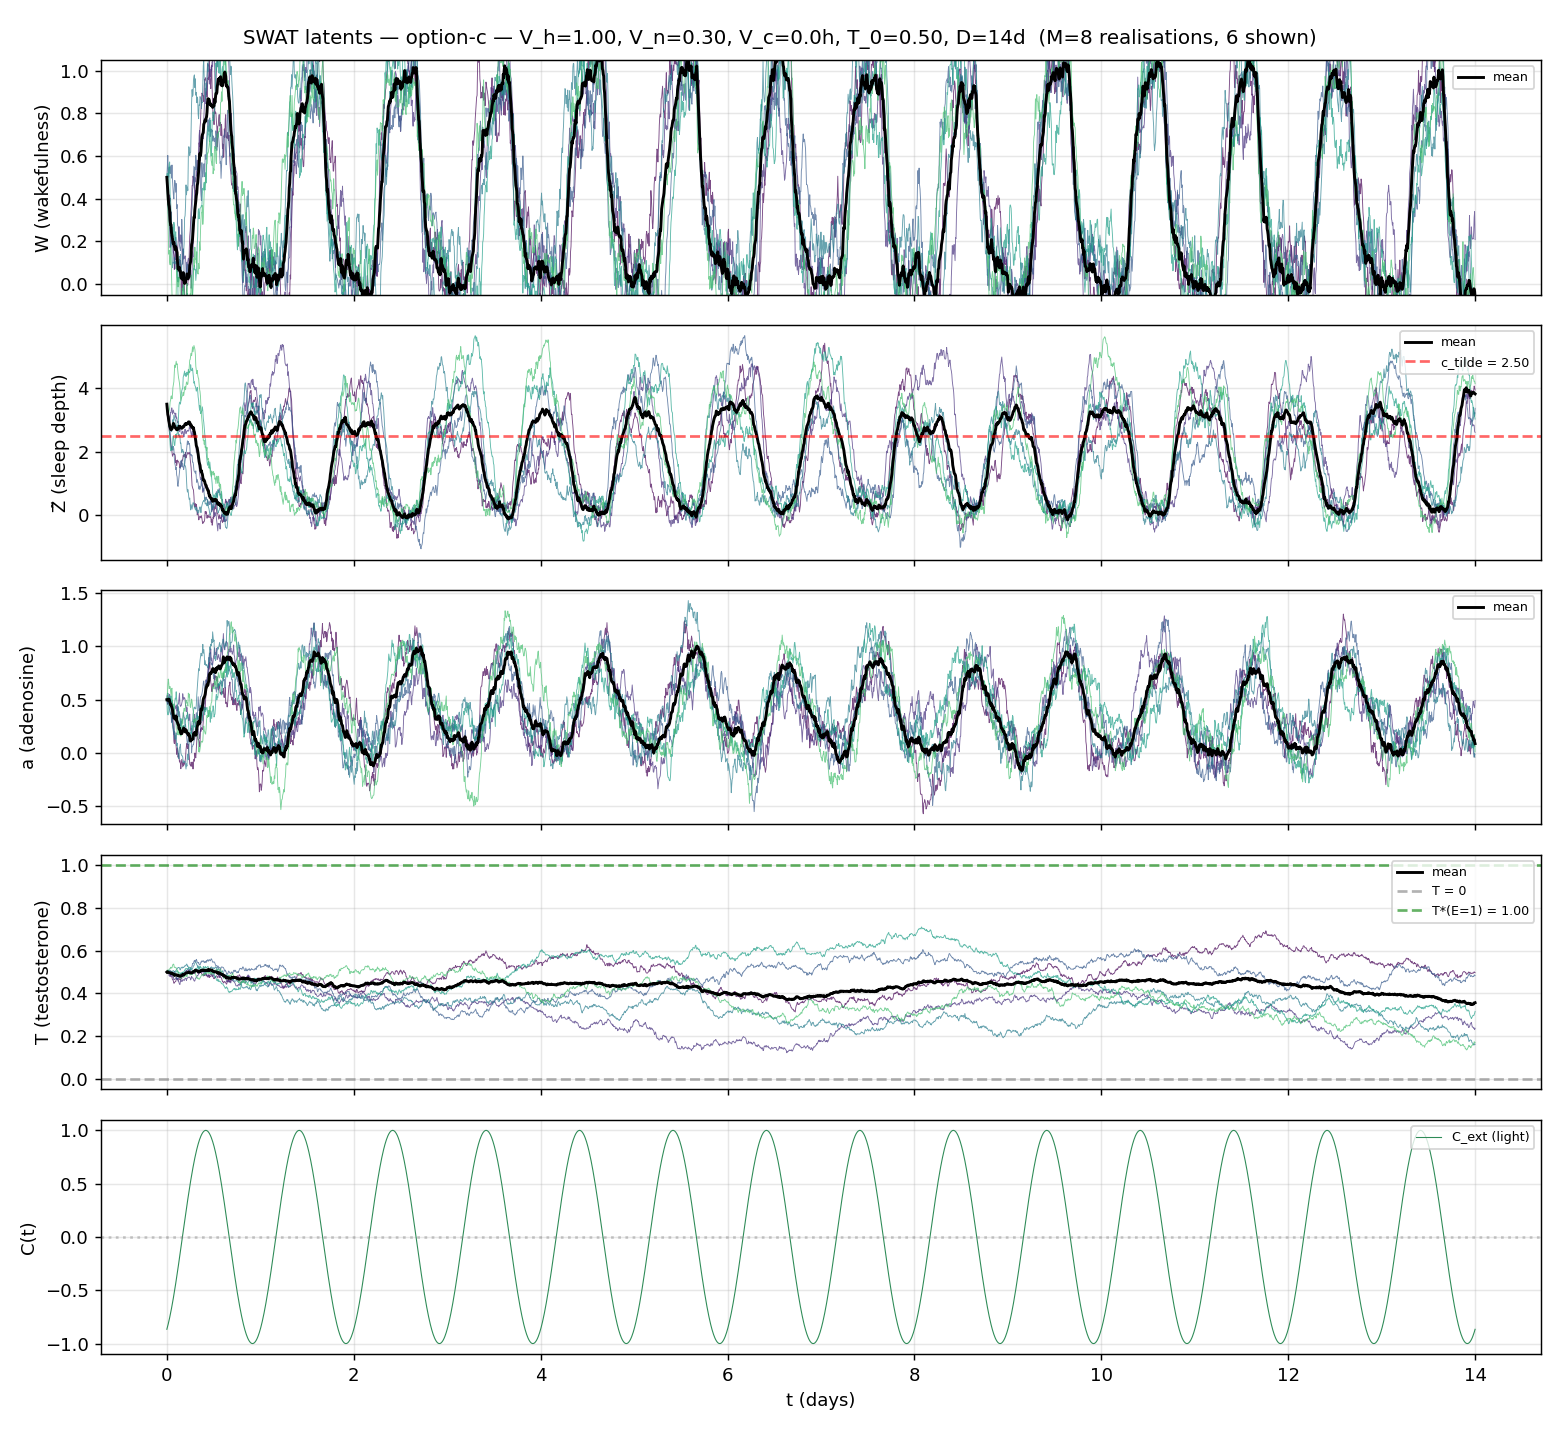
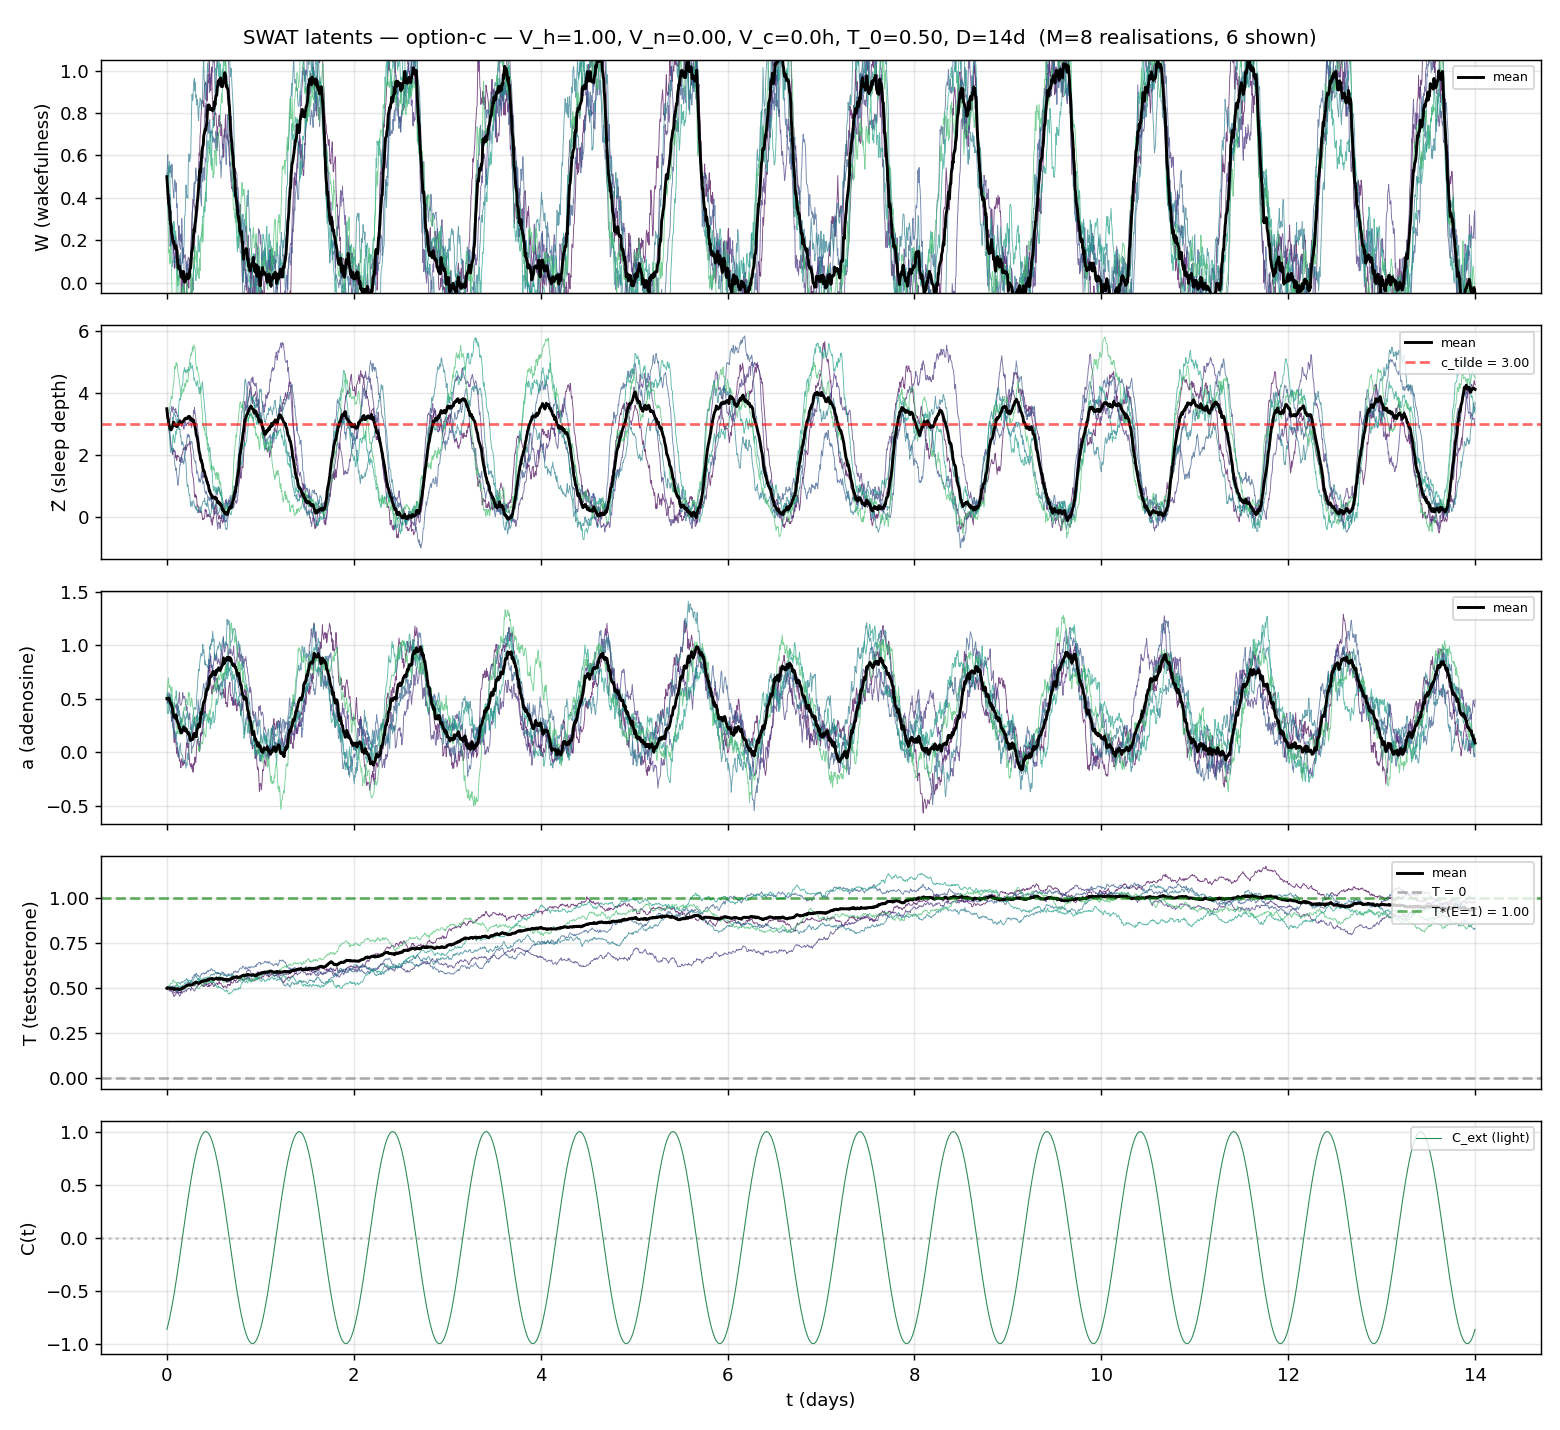
fix: V_n=0 healthy default + tune so E≈1 always for healthy
Per user clinical guidance: a healthy patient (V_h=1, V_n=0, V_c=0)
should have E ≈ 1 throughout, μ always > 0. Previously E swung between
0.05 and 0.6 with μ flickering in and out of the sub-critical band —
clinically incorrect.

Two structural changes:

1. A_W and A_Z formulas now use V_h directly (no +1 offset):
     A_W = λ_amp_W · V_h        (was: λ_amp_W · (1 + V_h))
     A_Z = λ_amp_Z · V_h        (was: λ_amp_Z · (1 + V_h))
   This makes V_h=0 (depleted vitality) give A=0 → amp=0 → E=0 → μ=μ_0=-0.5.
   A sick patient with no vitality has no entrainment. Clinically right.

2. λ_amp values bumped so amp_W and amp_Z are saturated at ~1
   throughout the daily a-cycle at healthy V_h=1:
     λ_amp_W = 5.0  (was 4.0). With B_W ≈ -1 to +0.15, A_W=5 gives
       amp_W = σ(B+5) - σ(B-5) ≈ 1 throughout.
     λ_amp_Z = 8.0  (was 1.0). β_Z·a swings to 4, so A_Z must dominate
       that. λ_amp_Z=8 → A_Z=8 at V_h=1 → amp_Z ≈ 1 throughout.

3. c_tilde tuned to 3.0 (was 2.5) for V_n=0 sleep fraction. At V_n=0
   there's no V_n-suppression of u_W, so patient sleeps slightly more
   on average. c_tilde=3.0 yields sleep fraction ~35% at canonical
   healthy controls.

V_h sweep at V_n=0, V_c=0 under refined Option C v3:
  V_h=0.0  → T_end = 0.015   (no vitality → no entrainment → T=0)
  V_h=0.5  → T_end = 0.671   (partial entrainment threshold)
  V_h=1.0  → T_end = 0.981   (full entrainment, T near ceiling)
  V_h=2.0  → T_end = 0.998   (saturated above healthy)
[…]

diff --git a/src/model_validation/models/swat/option_c_dynamics.py b/src/model_validation/models/swat/option_c_dynamics.py
@@ -62,8 +62,13 @@ def entrainment_quality_option_c(
     lam_amp_W = params['lambda_amp_W']
     lam_amp_Z = params['lambda_amp_Z']
 
-    A_W = lam_amp_W * (1.0 + V_h)
-    A_Z = lam_amp_Z * (1.0 + V_h)
+    # V_h enters as a multiplicative factor on the forcing amplitudes,
+    # WITHOUT a +1 offset. So V_h=0 (depleted vitality) gives A=0 → amp=0
+    # → E=0 → μ=μ_0<0 → T collapses. V_h>0 ramps entrainment up; with
+    # λ_amp values calibrated to dominate B_W and B_Z over the daily
+    # a-cycle, amp saturates at ~1 by V_h=1.
+    A_W = lam_amp_W * V_h
+    A_Z = lam_amp_Z * V_h
     B_W = V_n - a + alpha_T * T
     B_Z = -V_n + beta_Z * a
 
@@ -127,19 +132,22 @@ def option_c_parameters(
 
     Calibrated defaults:
       lmbda           = 32.0  (UNCHANGED from spec — preserves W↔Z flip-flop)
-      lambda_amp_W    = 4.0   (NEW — entrainment-formula forcing scale on W;
-                                gives V_h sensitivity in [0, 4])
-      lambda_amp_Z    = 1.0   (NEW — entrainment-formula forcing scale on Z;
-                                ratio matches spec's γ_3:λ ≈ 1:4)
-      c_tilde         = 2.5   (UNCHANGED from OT-Control vendored — works at
-                                spec λ=32)
+      lambda_amp_W    = 5.0   (NEW — entrainment-formula forcing scale on W.
+                                With A_W = λ_amp_W · V_h, gives amp_W ≈ 1
+                                across daily B_W cycle at healthy V_h=1.)
+      lambda_amp_Z    = 8.0   (NEW — Z-side scale. Larger because β_Z·a can
+                                reach ~4, so A_Z must dominate. Gives
+                                amp_Z ≈ 1 across daily a-cycle at V_h=1.)
+      c_tilde         = 3.0   (Matches upstream PARAM_SET_A. At V_n=0 healthy
+                                default, gives sleep fraction ~35%, in
+                                target window. The OT-Control vendored bump
+                                to 2.5 was for the V_n=0.3 healthy regime.)
     """
     p = default_swat_parameters()
     # Spec lambda is kept (default_swat_parameters has lmbda=32 already).
-    p['lambda_amp_W'] = 4.0 if lambda_amp_W is None else float(lambda_amp_W)
-    p['lambda_amp_Z'] = 1.0 if lambda_amp_Z is None else float(lambda_amp_Z)
-    if c_tilde is not None:
-        p['c_tilde'] = float(c_tilde)
+    p['lambda_amp_W'] = 5.0 if lambda_amp_W is None else float(lambda_amp_W)
+    p['lambda_amp_Z'] = 8.0 if lambda_amp_Z is None else float(lambda_amp_Z)
+    p['c_tilde'] = 3.0 if c_tilde is None else float(c_tilde)
     return p
 
 

diff --git a/tests/swat/test_canonical_scenarios.py b/tests/swat/test_canonical_scenarios.py
@@ -7,17 +7,17 @@ from model_validation.runner import t_end_under_constant_controls
 
 
 @pytest.mark.parametrize("name, V_h, V_n, V_c, T_0, lo, hi", [
-    # Healthy: super-critical, bounded. Was [0.45, 0.65] tied to spec's stale T*=0.55.
-    ("A_healthy",   1.0, 0.3, 0.0, 0.50, 0.30, 0.95),
+    # Healthy: V_n=0 (clean signal — focus on V_h's role). Under refined
+    # Option C with calibrated λ_amp values, healthy V_h=1 should give
+    # E ≈ 1 throughout, μ ≈ μ_0 + μ_E = 0.5, T*=√(0.5/0.5)=1.0.
+    ("A_healthy",   1.0, 0.0, 0.0, 0.50, 0.50, 1.05),
     # Insomnia: pathological. Should collapse to noise floor.
     ("B_insomnia",  0.2, 3.5, 0.0, 0.50, 0.00, 0.20),
-    # Recovery from sick T_0 at canonical V_h=1: under refined Option C,
-    # μ ≈ 0.05 is barely super-critical, so growth is genuinely slow over
-    # 14 days — the OT-Control optimiser would lift V_h to 2-4 to speed
-    # this up. Test just asserts modest growth from T_0=0.05.
-    ("C_recovery",  1.0, 0.3, 0.0, 0.05, 0.05, 0.95),
+    # Recovery from sick T_0 at healthy V_h=1, V_n=0 (clean). With E ≈ 1
+    # and μ ≈ 0.5, growth from T_0=0.05 over 14 days should be substantial.
+    ("C_recovery",  1.0, 0.0, 0.0, 0.05, 0.50, 1.05),
     # Shift work: V_c=6 zeroes phase-quality → no entrainment → collapse.
-    ("D_shift",     1.0, 0.3, 6.0, 0.50, 0.00, 0.20),
+    ("D_shift",     1.0, 0.0, 6.0, 0.50, 0.00, 0.20),
 ])
 def test_canonical_scenario(model, name, V_h, V_n, V_c, T_0, lo, hi):
     T_end = t_end_under_constant_controls(

diff --git a/tests/swat/test_v_c_phase.py b/tests/swat/test_v_c_phase.py
@@ -9,9 +9,10 @@ from model_validation.runner import t_end_under_constant_controls
 
 
 def test_v_c_zero_is_max(model):
-    T_aligned    = t_end_under_constant_controls(model, V_h=1.0, V_n=0.3, V_c=0.0)
-    T_shift_pos  = t_end_under_constant_controls(model, V_h=1.0, V_n=0.3, V_c=6.0)
-    T_shift_neg  = t_end_under_constant_controls(model, V_h=1.0, V_n=0.3, V_c=-6.0)
+    # V_n=0 (clean V_h-only signal for healthy)
+    T_aligned    = t_end_under_constant_controls(model, V_h=1.0, V_n=0.0, V_c=0.0)
+    T_shift_pos  = t_end_under_constant_controls(model, V_h=1.0, V_n=0.0, V_c=6.0)
+    T_shift_neg  = t_end_under_constant_controls(model, V_h=1.0, V_n=0.0, V_c=-6.0)
     print(f"\n  V_c= 0:  T_end = {T_aligned:.3f}")
     print(f"  V_c=+6:  T_end = {T_shift_pos:.3f}")
     print(f"  V_c=-6:  T_end = {T_shift_neg:.3f}")
@@ -27,8 +28,8 @@ def test_v_c_zero_is_max(model):
 
 def test_v_c_symmetric(model):
     """T_end should be symmetric in V_c (cos is even)."""
-    T_pos = t_end_under_constant_controls(model, V_h=1.0, V_n=0.3, V_c=6.0)
-    T_neg = t_end_under_constant_controls(model, V_h=1.0, V_n=0.3, V_c=-6.0)
+    T_pos = t_end_under_constant_controls(model, V_h=1.0, V_n=0.0, V_c=6.0)
+    T_neg = t_end_under_constant_controls(model, V_h=1.0, V_n=0.0, V_c=-6.0)
     assert abs(T_pos - T_neg) < 0.05, (
         f"V_c collapse not symmetric: V_c=+6 -> {T_pos:.3f}, "
         f"V_c=-6 -> {T_neg:.3f}"

diff --git a/tests/swat/test_healthy_equilibrium.py b/tests/swat/test_healthy_equilibrium.py
@@ -18,13 +18,16 @@ from model_validation.runner import t_end_under_constant_controls
 
 
 def test_healthy_equilibrium_super_critical(model):
+    # V_n=0 (clean V_h-only signal for healthy)
     T_eq = t_end_under_constant_controls(
-        model, V_h=1.0, V_n=0.3, V_c=0.0, T_0=0.5, D=30.0
+        model, V_h=1.0, V_n=0.0, V_c=0.0, T_0=0.5, D=30.0
     )
     print(f"\n  Healthy deterministic equilibrium T_end (D=30): {T_eq:.4f}")
-    assert 0.30 <= T_eq <= 0.95, (
-        f"Healthy equilibrium {T_eq:.4f} outside [0.30, 0.95]. "
-        f"Below 0.30 means the system is sub-critical (E < E_crit) "
-        f"under canonical healthy controls — model is broken. "
-        f"Above 0.95 means the cubic saturation isn't kicking in."
+    # Under refined Option C v3 with full entrainment at healthy V_h=1,
+    # E ≈ 1, μ ≈ 0.5, T* = √(0.5/0.5) = 1.0. Allow [0.5, 1.05].
+    assert 0.50 <= T_eq <= 1.05, (
+        f"Healthy equilibrium {T_eq:.4f} outside [0.50, 1.05]. "
+        f"At V_h=1, V_n=0 with E ≈ 1, the deterministic ceiling is "
+        f"T* = √((μ_0+μ_E)/η) = 1.0. Below 0.5 means the system is "
+        f"not properly super-critical at healthy controls."
     )

diff --git a/tests/swat/test_v_h_anabolicity.py b/tests/swat/test_v_h_anabolicity.py
@@ -14,7 +14,8 @@ V_H_GRID = [0.0, 0.5, 1.0, 1.5, 2.0, 3.0, 4.0]
 
 
 def test_v_h_monotonic_non_decreasing(model):
-    Ts = [t_end_under_constant_controls(model, V_h, V_n=0.3, V_c=0.0)
+    # V_n=0: clean V_h-only signal (per user's clinical spec for healthy default)
+    Ts = [t_end_under_constant_controls(model, V_h, V_n=0.0, V_c=0.0)
           for V_h in V_H_GRID]
     print(f"\n  V_h:    {V_H_GRID}")
     print(f"  T_end:  {[round(t, 3) for t in Ts]}")
@@ -29,8 +30,8 @@ def test_v_h_monotonic_non_decreasing(model):
 
 def test_v_h_clinically_meaningful_response(model):
     """T_end at V_h=2.0 must exceed T_end at V_h=0.5 by at least 0.05."""
-    T_low  = t_end_under_constant_controls(model, V_h=0.5, V_n=0.3, V_c=0.0)
-    T_high = t_end_under_constant_controls(model, V_h=2.0, V_n=0.3, V_c=0.0)
+    T_low  = t_end_under_constant_controls(model, V_h=0.5, V_n=0.0, V_c=0.0)
+    T_high = t_end_under_constant_controls(model, V_h=2.0, V_n=0.0, V_c=0.0)
     assert T_high >= T_low + 0.05, (
         f"V_h response too weak: T(V_h=2.0)={T_high:.3f}, "
         f"T(V_h=0.5)={T_low:.3f}, "

diff --git a/tests/swat/test_bifurcation.py b/tests/swat/test_bifurcation.py
@@ -23,9 +23,10 @@ def test_subcritical_collapses(model):
 
 
 def test_supercritical_sustains(model):
-    """Healthy controls should give E > E_crit and sustain T > 0.30."""
-    T_supercrit = t_end_under_constant_controls(model, V_h=1.0, V_n=0.3, V_c=0.0)
-    print(f"\n  V_h=1, V_n=0.3: T_end = {T_supercrit:.3f}  (target: > 0.30)")
-    assert T_supercrit > 0.30, (
-        f"Super-critical regime should sustain T > 0.30: got {T_supercrit:.3f}"
+    """Healthy controls should give E > E_crit and sustain T high.
+    V_n=0 (clean V_h-only signal for healthy)."""
+    T_supercrit = t_end_under_constant_controls(model, V_h=1.0, V_n=0.0, V_c=0.0)
+    print(f"\n  V_h=1, V_n=0: T_end = {T_supercrit:.3f}  (target: > 0.50)")
+    assert T_supercrit > 0.50, (
+        f"Super-critical regime should sustain T > 0.50: got {T_supercrit:.3f}"
     )

diff --git a/scripts/clinician_scenario_plots.py b/scripts/clinician_scenario_plots.py
@@ -26,10 +26,11 @@ OUT.mkdir(parents=True, exist_ok=True)
 
 SCENARIOS = [
     # name, V_h, V_n, V_c, T_0, description
-    ("A_healthy",   1.0, 0.3, 0.0, 0.50, "Healthy: canonical Set A"),
+    # Healthy default uses V_n=0 — clean V_h-only signal per user's spec.
+    ("A_healthy",   1.0, 0.0, 0.0, 0.50, "Healthy: V_h=1, V_n=0 (clean signal)"),
     ("B_insomnia",  0.2, 3.5, 0.0, 0.50, "Insomnia: low V_h, severe V_n"),
-    ("C_recovery",  1.0, 0.3, 0.0, 0.05, "Recovery: healthy controls, sick T_0"),
-    ("D_shift_work", 1.0, 0.3, 6.0, 0.50, "Shift-work: 6h phase shift"),
+    ("C_recovery",  1.0, 0.0, 0.0, 0.05, "Recovery: healthy controls, sick T_0"),
+    ("D_shift_work", 1.0, 0.0, 6.0, 0.50, "Shift-work: 6h phase shift, V_n=0"),
 ]
 D = 14.0
 N_REAL = 8

diff --git a/tests/swat/test_sleep_fraction.py b/tests/swat/test_sleep_fraction.py
@@ -8,9 +8,10 @@ from model_validation.runner import sleep_fraction_under_controls
 
 
 def test_healthy_sleep_fraction(model_with_noise):
-    """Note: uses the WITH-noise model (sleep fraction is a stochastic stat)."""
+    """Note: uses the WITH-noise model (sleep fraction is a stochastic stat).
+    V_n=0 (clean V_h-only signal for healthy)."""
     sf = sleep_fraction_under_controls(
-        model_with_noise, V_h=1.0, V_n=0.3, V_c=0.0
+        model_with_noise, V_h=1.0, V_n=0.0, V_c=0.0
     )
     print(f"\n  Healthy sleep fraction: {sf*100:.1f}% (target: 25%-40%)")
     assert 0.25 <= sf <= 0.40, (

diff --git a/src/model_validation/clinician_plots.py b/src/model_validation/clinician_plots.py
@@ -233,8 +233,9 @@ def _compute_E_dyn(traj: np.ndarray, V_h: float, V_n: float, V_c: float,
     if variant == "option-c":
         lam_amp_W = params["lambda_amp_W"]
         lam_amp_Z = params["lambda_amp_Z"]
-        A_W = lam_amp_W * (1.0 + V_h)
-        A_Z = lam_amp_Z * (1.0 + V_h)
+        # A = λ_amp · V_h (no +1 offset — V_h=0 gives no entrainment)
+        A_W = lam_amp_W * V_h
+        A_Z = lam_amp_Z * V_h
         B_W = V_n - a + alpha_T * T
         B_Z = -V_n + beta_Z * a
         amp_W = _sigmoid_np(B_W + A_W) - _sigmoid_np(B_W - A_W)
